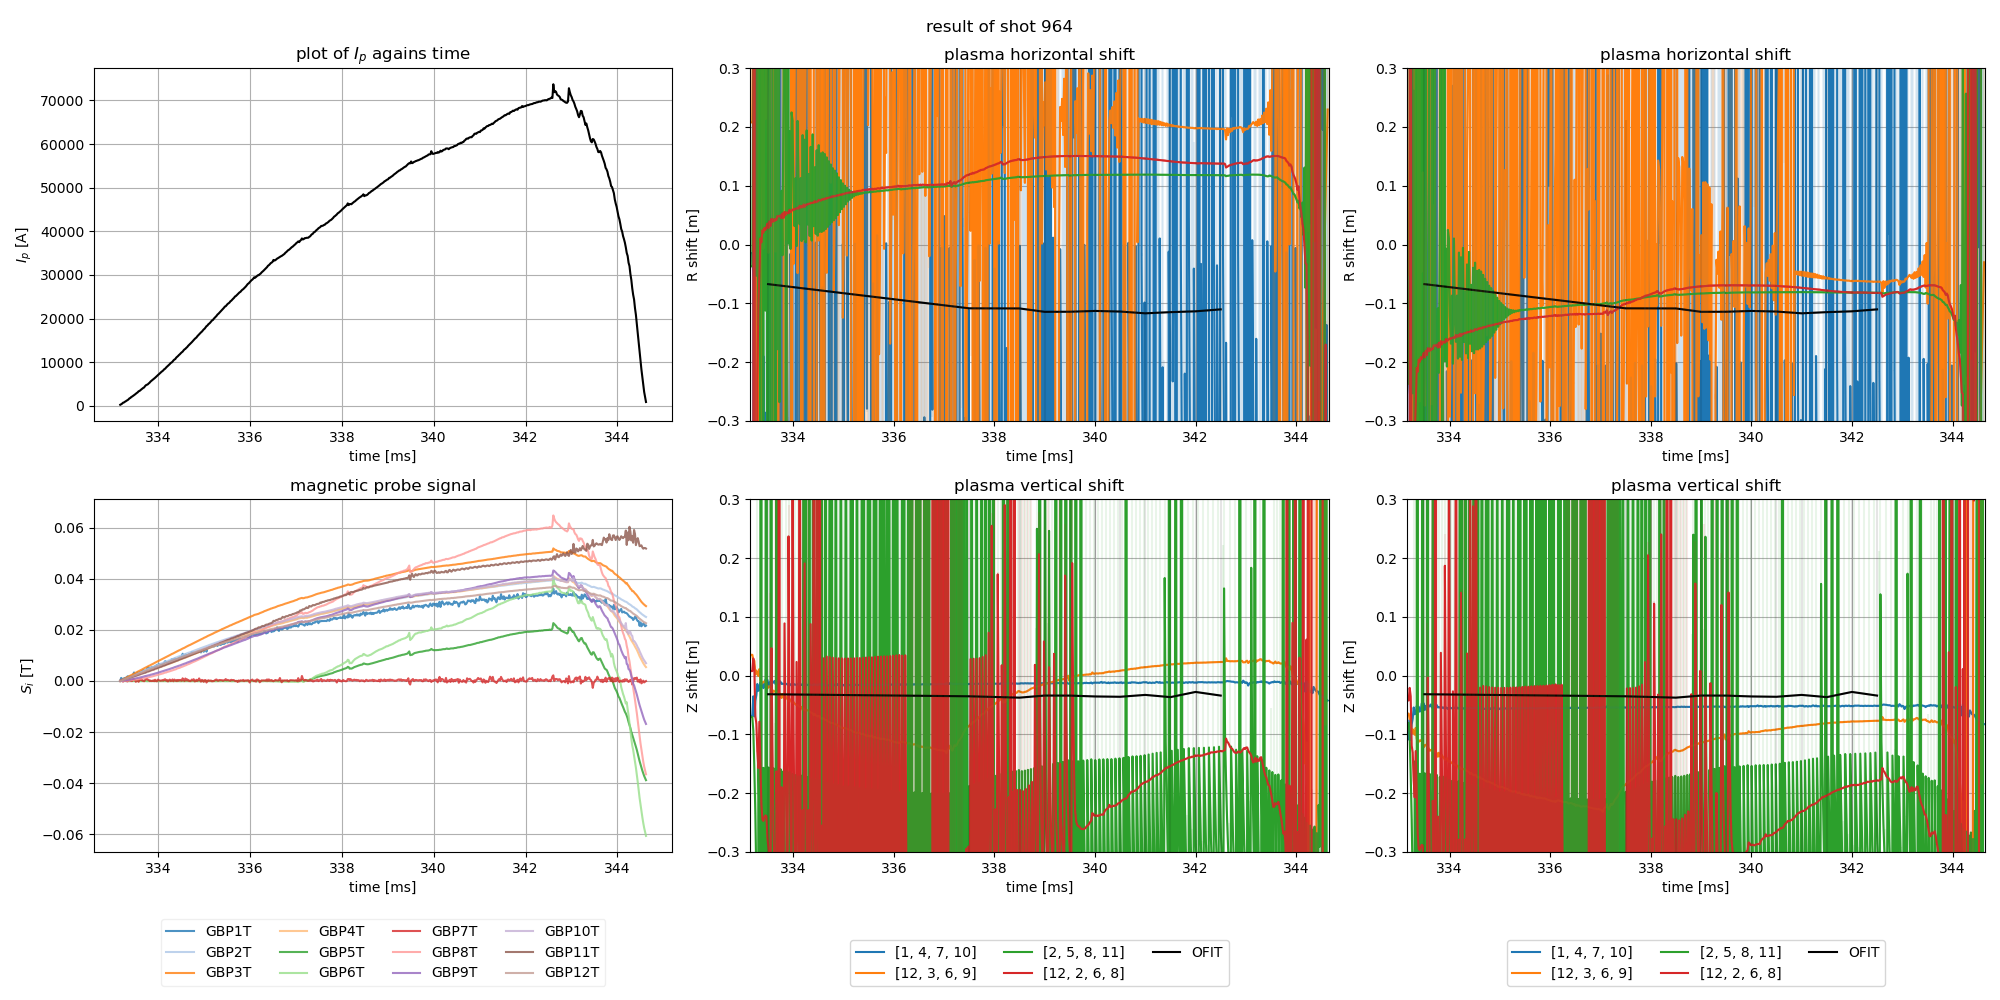
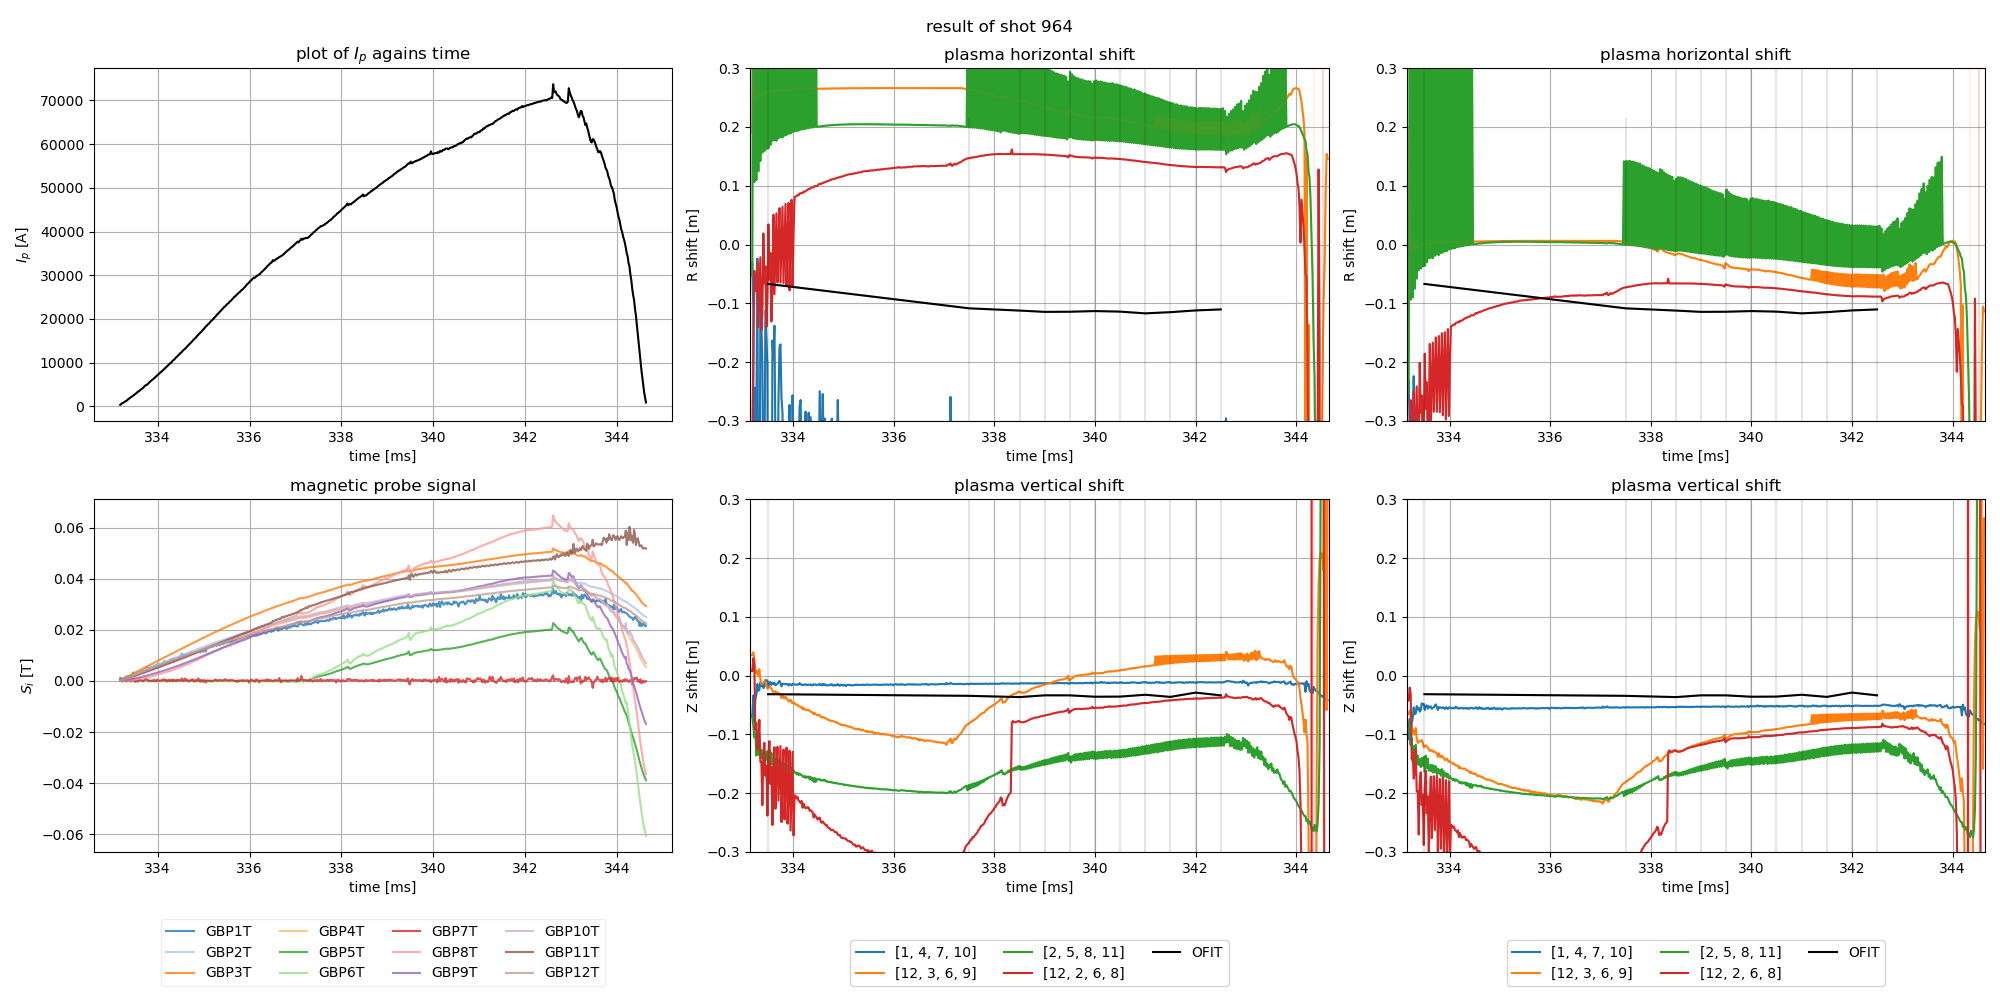
adjust shift approximation to be within +- 20, fix bug of misplaced est_horizontal/vertical_shift add py file for purelytoroidal filament result

diff --git a/toroidalFilament_dir/plasma_shift.py b/toroidalFilament_dir/plasma_shift.py
@@ -20,14 +20,14 @@ def make_taylor(order,a) -> Callable:
         return sum([coeff[i] * (x-a)**i for i in range(order + 1)])
     return taylor_polynomial
 
-def cal_alpha(DxDz_method: Callable,a:float,taylor_order:int ,horizontal_shift: float,vertical_shift:float, coil_angle: NDArray[np.float64],
+def cal_alpha(DxDz_method: Callable,a:float,taylor_order:int ,horizontal_shift: float, coil_angle: NDArray[np.float64],
             vertical_range: NDArray[np.float64] = np.linspace(-0.05,0.05,101)) -> tuple:
     """
     calculate alpha coefficient from curve fitting
 
     :param:
     DxDz_method (Callable): method for calculation of Dx & Dz (cal_newton_DxDz/cal_approx_DxDz)
-    :param Dz: point to be evaluate in taylor series
+    :param Dz: point to be evaluated in taylor series
     horizontal_shift (float): plasma shift value along x/radial direction
     M_angle (list[float]): list of angle between the positive x-axis and radial vector each coil in the cross
     vertical_range (NDArray[np.float64): possible shift of plasma along vertical axis
@@ -43,7 +43,7 @@ def cal_alpha(DxDz_method: Callable,a:float,taylor_order:int ,horizontal_shift: 
     #p0 -> taylor order + 1 because order n has n+1 coeff
     return sc.optimize.curve_fit(taylor_polynomial, Dz, vertical_range,p0 = [0.001]*(taylor_order+1),full_output=False,gtol=1e-8, xtol=1e-8)
 
-def cal_beta(DxDz_method: Callable,a: float,taylor_order:int,vertical_shift: float,horizontal_shift:float, coil_angle: NDArray[np.float64],
+def cal_beta(DxDz_method: Callable,a: float,taylor_order:int,vertical_shift: float, coil_angle: NDArray[np.float64],
              horizontal_range: NDArray[np.float64] = np.linspace(-0.05,0.05,101)) -> tuple:
     """
     calculate beta coefficient from curve fitting
@@ -88,8 +88,8 @@ def cal_shift(DxDz_method: Callable, taylor_order:int,signal: list[float], est_h
 
     Dx, Dz = DxDz_method(signal, coil_angle)
 
-    alpha, a_cov = cal_alpha(DxDz_method,Dz,taylor_order,est_vertical_shift,est_horizontal_shift, coil_angle,vertical_range = alpha_vertical_range)
-    beta, b_cov = cal_beta(DxDz_method,Dx,taylor_order,est_horizontal_shift,est_vertical_shift, coil_angle, horizontal_range= beta_horizontal_range)
+    alpha, a_cov = cal_alpha(DxDz_method,Dz,taylor_order,est_horizontal_shift, coil_angle,vertical_range = alpha_vertical_range) ###check here
+    beta, b_cov = cal_beta(DxDz_method,Dx,taylor_order,est_vertical_shift, coil_angle, horizontal_range= beta_horizontal_range)
 
     a_cov, b_cov = np.diag(a_cov), np.diag(b_cov)
 
@@ -144,8 +144,8 @@ def toroidal_filament_shift_progression(time_df:pd.DataFrame,signal_df:pd.DataFr
 
     :param time_df: data frame of recorded time of each magnetic signal input
     :param signal_df: data frame of recorded signal 
-    :param probe_number: nested list of probe numbers used in each array (counter clockwise) eg. [[1,4,7,10],[12,3,6,9]]
-    :param taylor_order: order of taylor series used in plasma shift calculation
+    :param probe_number: nested list of probe numbers used in each array (counter-clockwise) eg. [[1,4,7,10],[12,3,6,9]]
+    :param taylor_order: order of taylor series used in plasma shift calculation.
     :param DxDz_method: calculation method for Dx & Dz use newton method as default
     :return: valid time stamps and shift with respective errror (np.array(valid_time), np.array(R0_arr), np.array(R0_err_arr), np.array(Z0_arr), np.array(Z0_err_arr))
     """
@@ -161,9 +161,6 @@ def toroidal_filament_shift_progression(time_df:pd.DataFrame,signal_df:pd.DataFr
     Z0_arr,Z0_err_arr = [[0]for _ in range(num_result)], [[0]for _ in range(num_result)]
     valid_time = [[0] for _ in range(num_result)]
 
-    #ignore warning from signal calculatoin (to be replaced in loop)
-    warnings.filterwarnings("ignore")
-
     for t, signal in tqdm(zip(
         time_df.to_numpy(),signal_df.to_numpy()
     ),total = len(time_df)):
@@ -171,18 +168,18 @@ def toroidal_filament_shift_progression(time_df:pd.DataFrame,signal_df:pd.DataFr
             #retreive signals for each probe arrays
             signal_df = [[signal[coil] for coil in group] for group in probe_number]
 
-
             #calculate shift for each probe arrays
             for i,s in enumerate(signal_df):
-                #replace warnings from signal calculatoin
-                est_horizontal_shift = R0_arr[i][-1]
-                if est_horizontal_shift < -R0:
-                    print(f"horizontal shift at time {t} is beyond domain for probe {probe_number[i]} use a_f = R0")
 
-                shift = cal_shift(DxDz_method=DxDz_method, taylor_order=taylor_order,signal = s, 
-                                est_horizontal_shift=R0_arr[i][-1], est_vertical_shift=Z0_arr[i][-1],coil_angle=probe_angles[i],
-                                alpha_vertical_range=np.linspace(-0.05,0.05,101), beta_horizontal_range=np.linspace(-0.05,0.05,101))
-                
+                est_R_shift, est_Z_shift = R0_arr[i][-1], Z0_arr[i][-1]
+                if abs(est_R_shift) > 0.2 or abs(est_Z_shift) > 0.2: # TTI minor radius = 0.2
+                    est_R_shift = 0
+                    est_Z_shift = 0
+
+                shift = cal_shift(DxDz_method=DxDz_method, taylor_order=taylor_order,signal = s,
+                                est_horizontal_shift=est_R_shift, est_vertical_shift=est_Z_shift,coil_angle=probe_angles[i],
+                                alpha_vertical_range=np.linspace(-0.01,0.01,101), beta_horizontal_range=np.linspace(-0.01,0.01,101))
+
                 R_shift, R_err = shift[0]
                 Z_shift, Z_err = shift[1]
 
@@ -190,10 +187,13 @@ def toroidal_filament_shift_progression(time_df:pd.DataFrame,signal_df:pd.DataFr
                 R0_err_arr[i].append(R_err)
                 Z0_arr[i].append(Z_shift)
                 Z0_err_arr[i].append(Z_err)
-            
+
                 #time with valid shift values
                 valid_time[i].append(t)
 
+        except ValueError:
+            print(f"unable to fit data at time {t} continue to next signal")
+            continue
 
         except RuntimeError:
             print(f"unable to fit data at time {t} continue to next signal")

diff --git a/toroidalFilament_dir/shift_simulation.py b/toroidalFilament_dir/shift_simulation.py
@@ -1,113 +1,72 @@
-from itertools import count
 from matplotlib import pyplot as plt
 import numpy as np
-from tqdm import tqdm
+import pandas as pd
 
-from .plasma_shift import cal_shift
-from .DxDz import cal_newton_DxDz as newton
-from .signal_strength import cal_signal
-from .geometry_TT1 import cross
+from .plasma_shift import toroidal_filament_shift_progression
+from .signal_strength import coil_signal
+from .geometry_TT1 import coil_angle_dict, R0, R
 
-num_iteration = 1000
+### simulate magnetic probe signal
 
-#actual value
-R_sim, Z_sim = [0.00], [0.00]
-I = [0]
+def simulate_signal(num_iteration = 1_000):
+    R_sim, Z_sim = [], []
+    all_probe_signal = [[] for _ in range(13)]
 
-#calculated value
-R0_cal, Z0_cal = [R_sim[0]], [Z_sim[0]] #-30 deg
-R0_err, Z0_err = [0], [0]
-R1_cal, Z1_cal = [R_sim[0]], [Z_sim[0]] #0 deg
-R1_err, Z1_err = [0], [0]
-R2_cal, Z2_cal = [R_sim[0]], [Z_sim[0]] #30 deg
-R2_err, Z2_err = [0], [0]
-
-index = count()
-
-def simulate(n):
-    for _ in tqdm(range(n)):
-        #actual shift value
-        if abs(R_sim[-1]) <= 0.12:
-            R_shift = R_sim[-1] + np.random.choice([-0.001, 0.001], p = [0.5,0.5])
-            Z_shift = Z_sim[-1] + np.random.choice([-0.001, 0.001], p = [0.5,0.5])
+    for _ in range(num_iteration):
+        R_est = R_sim[-1] if len(R_sim) > 0 else 0
+        Z_est = Z_sim[-1] if len(Z_sim) > 0 else 0
+        if abs(R_est) <= 0.12:
+            R_shift = R_est + np.random.choice([-0.001, 0.001], p = [0.8,0.2])
+            Z_shift = Z_est + np.random.choice([-0.001, 0.001], p = [0.2,0.8])
 
         else:
-            R_shift = R_sim[-1] + np.random.choice([-0.001, 0.001], p = [0.5,0.5])
-            Z_shift = Z_sim[-1] + np.random.choice([-0.001, 0.001], p = [0.5,0.5])
+            R_shift = R_est + np.random.choice([-0.001, 0.001], p = [0.5,0.5])
+            Z_shift = Z_est + np.random.choice([-0.001, 0.001], p = [0.5,0.5])
 
+        #append shift value
         R_sim.append(R_shift)
         Z_sim.append(Z_shift)
 
-        def helper(probe_array, est_horizontal, est_vertical, order=2):
-            signal = cal_signal(R_shift, Z_shift, probe_array)
-            shift = cal_shift(DxDz_method=newton, taylor_order=order, signal=signal,
-                              est_horizontal_shift=est_horizontal, est_vertical_shift=est_vertical,
-                              coil_angle=probe_array,
-                              beta_horizontal_range=np.linspace(-0.01,0.01,101), alpha_vertical_range=np.linspace(-0.01,0.01,101))
-            R, Z = shift[0, 0], shift[1, 0]
-            Re, Ze = shift[0,1], shift[1,1]
-            return R, Z, Re, Ze
+        all_probe_signal[0].append(0)
 
-        #calculated shift value
+        for probe_num, probe_signal in enumerate(all_probe_signal[1:], start = 1):
+            phi = coil_angle_dict[probe_num]
+            r_probe = R0 + R * np.cos(phi)
+            z_probe = R * np.sin(phi) - Z_shift
+            a_f = R0 + R_shift
+            signal_i = coil_signal(phi,r_probe,z_probe,a_f) #signal of probe at this specific iteration
+            probe_signal.append(signal_i)
 
-        #cross 0
-        R0, Z0, R0e,Z0e = helper(probe_array=(cross[0][0], cross[2][0], cross[0][2], cross[2][2]),est_horizontal=R0_cal[-1],est_vertical=Z0_cal[-1])
-        R0_cal.append(R0)
-        R0_err.append(R0e)
-        Z0_cal.append(Z0)
-        Z0_err.append(Z0e)
+    return list(range(num_iteration)),R_sim, Z_sim, all_probe_signal
 
-        #cross 1
-        R1, Z1, R1e,Z1e = helper([cross[0][0], cross[1][3], cross[0][2],cross[1][2]], R1_cal[-1], Z1_cal[-1])
-        R1_cal.append(R1)
-        R1_err.append(R1e)
-        Z1_cal.append(Z1)
-        Z1_err.append(Z1e)
+iteration, R_sim, Z_sim, probe_signal = simulate_signal()
 
-        #cross 2
-        R2, Z2,R2e,Z2e = helper([cross[1][3], cross[2][0], cross[1][2],cross[2][2]], R2_cal[-1],Z2_cal[-1])
-        R2_cal.append(R2)
-        R2_err.append(R2e)
-        Z2_cal.append(Z2)
-        Z2_err.append(Z2e)
+signal_df = pd.DataFrame(np.array(probe_signal).T)
+iteration_df = pd.Series(np.array(iteration).T)
 
-simulate(num_iteration)
+### calculate plasma shift
+use_probes = [[1, 4, 7, 10], [12, 3, 6, 9], [2, 5, 8, 11], [12, 2, 6, 8]]
+valid_iteration, R_arr, R_err, Z_arr, Z_err =  toroidal_filament_shift_progression(iteration_df,signal_df,use_probes)
 
-fig, (ax1, ax2) = plt.subplots(2, 1, figsize=(5, 5))
+fig, ax = plt.subplots(1,2,figsize = (15,5))
 
-iteration = list(range(num_iteration+1))
+ax[0].plot(iteration, R_sim, label = "R sim")
+for iter, R, probes in zip(valid_iteration, R_arr,use_probes):
+    ax[0].plot(iter,R,label = f"{probes}")
+ax[0].set_xlabel("iteration [1]")
+ax[0].set_ylabel("R shift [m]")
+ax[0].grid()
+ax[0].legend()
 
-#plot of R shift
-ax1.plot(iteration, R_sim,color = "red", label = "R_shift")
-ax1.errorbar(iteration, R0_cal,yerr = R0_err, color = "blue", label = "R0_cal")
-ax1.errorbar(iteration, R1_cal,yerr = R1_err, color = "green", label = "R1_cal")
-ax1.errorbar(iteration, R2_cal,yerr = R2_err, color = "purple", label = "R2_cal")
-ax1.set_ylim(-0.2,0.2)
-ax1.set_xlabel("iteration [1]")
-ax1.set_ylabel("R shift [m]")
-ax1.legend()
-ax1.grid()
+ax[1].plot(iteration, Z_sim, label = "Z sim")
+for iter, Z, probes in zip(valid_iteration, Z_arr, use_probes):
+    ax[1].plot(iter,Z,label = f"{probes}")
+ax[1].set_xlabel("iteration [1]")
+ax[1].set_ylabel("Z shift [m]")
+ax[1].grid()
+ax[1].legend()
 
-#plot of Z shift
-ax2.plot(iteration, Z_sim, color = "red", label = "Z_shift")
-ax2.errorbar(iteration, Z0_cal,Z0_err ,color = "blue", label = "Z0_cal")
-ax2.errorbar(iteration, Z1_cal,Z1_err, color = "green", label = "Z1_cal")
-ax2.errorbar(iteration, Z2_cal,Z2_err, color = "purple", label = "Z2_cal")
-ax2.set_ylim(-0.2,0.2)
-ax2.set_xlabel("iteration [1]")
-ax2.set_ylabel("Z shift [m]")
-ax2.legend()
-ax2.grid()
+for a in ax:
+    a.set_ylim(-0.2,0.2)
 
-R_sim = np.array(R_sim)
-
-mean_R0_err = np.mean(abs(np.array(R0_cal) - R_sim))
-mean_R1_err = np.mean(abs(np.array(R1_cal) - R_sim))
-mean_R2_err = np.mean(abs(np.array(R2_cal) - R_sim))
-
-print(mean_R0_err, mean_R1_err, mean_R2_err)
-
-plt.tight_layout()
 plt.show()
-
-

diff --git a/toroidalFilamentResult.py b/toroidalFilamentResult.py
@@ -1,0 +1,79 @@
+#standard libraries
+import numpy as np
+from matplotlib import pyplot as plt
+import pandas as pd
+from tqdm import tqdm
+
+#toroidal filament functions
+from process_probe_data import retreive_plasma_current, retreive_magnetic_signal,trim_quantities
+from toroidalFilament_dir.plasma_shift import toroidal_filament_shift_progression
+
+shot_lst = list(range(961,968))
+shot_lst = [961]
+time_extension = 10 #ms
+
+for shot_no in shot_lst:
+    #retreive processed data
+    recorded_plasma_current, recorded_time, discharge_begin, discharge_end = retreive_plasma_current(shot_no)
+    recorded_magnetic_signal = retreive_magnetic_signal(shot_no)
+
+    end_time = min(discharge_begin + time_extension, discharge_end)
+
+    time, plasma_current, plasma_signal = trim_quantities(recorded_time,recorded_magnetic_signal,recorded_plasma_current,discharge_begin,end_time)
+
+    #calculate shift with toroidal filament
+    use_probes = [[1,4,7,10],[12,3,6,9],[2,5,8,11],[12,2,6,8]]
+    valid_time, toroidal_R0_arr, toroidal_R0_err, toroidal_Z0_arr, toroidal_Z0_err = toroidal_filament_shift_progression(time,plasma_signal,use_probes)
+
+
+    def result_plot(axR, axZ, adjust):
+        # toroidal filament result
+        for t, R_shift, R_err, probe_arr in zip(valid_time, toroidal_R0_arr, toroidal_R0_err, use_probes):
+            if probe_arr == [12, 3, 6, 9]:
+                factor = 0.26
+            elif probe_arr == [12, 2, 6, 8]:
+                factor = 0.22
+            elif probe_arr == [1, 4, 7, 10]:
+                factor = 0.2
+            elif probe_arr == [2, 5, 8, 11]:
+                factor = 0.2
+            if adjust == False: factor = 0
+            line = axR.plot(t, np.array(R_shift) - factor, label=f"{probe_arr}")
+            color = line[0].get_color()
+            axR.errorbar(t, np.array(R_shift) - factor, yerr=R_err, alpha=0.1, color=color)
+
+        axR.set_ylim(-0.3, 0.3)
+        axR.set_xlim(left=discharge_begin, right=end_time)
+        axR.grid()
+        axR.set_xlabel("time [ms]")
+        axR.set_ylabel("R shift [m]")
+        axR.set_title("plasma horizontal shift")
+
+        # toroidal filament result
+        for t, Z_shift, Z_err, probe_arr in zip(valid_time, toroidal_Z0_arr, toroidal_Z0_err, use_probes):
+            if probe_arr == [12, 3, 6, 9]:
+                factor = 0.1
+            elif probe_arr == [12, 2, 6, 8]:
+                factor = 0.05
+            elif probe_arr == [1, 4, 7, 10]:
+                factor = 0.04
+            elif probe_arr == [2, 5, 8, 11]:
+                factor = 0.01
+            if adjust == False: factor = 0
+            line = axZ.plot(t, np.array(Z_shift) - factor, label=f"{probe_arr}")
+            color = line[0].get_color()
+            axZ.errorbar(t, np.array(Z_shift) - factor, yerr=Z_err, alpha=0.1, color=color)
+
+        axZ.set_ylim(-0.3, 0.3)
+        axZ.set_xlim(left=discharge_begin, right=end_time)
+        axZ.grid()
+        axZ.set_xlabel("time [ms]")
+        axZ.set_ylabel("Z shift [m]")
+        axZ.set_title("plasma vertical shift")
+        axZ.legend(loc="lower center", bbox_to_anchor=(0.5, -0.4), ncol=3)
+
+    fig, ax = plt.subplots(1,2,figsize = (15,5))
+    result_plot(ax[0],ax[1],False)
+    save_path = r"C:\Users\pitit\Documents\02_MUIC_programming\ICPY_441_Senior_project_in_physics\plasmaColumnPosition\resources\result" + f"\\toroidal{shot_no}"
+    plt.tight_layout()
+    plt.savefig(save_path)

diff --git a/toroidalFilament_dir/signal_strength.py b/toroidalFilament_dir/signal_strength.py
@@ -20,6 +20,10 @@ def coil_signal(phi:np.float64, r:float, z:float, a_f:float):
     Returns:
     float: simulated magnetic signal at each coils
     """
+    if None in (phi,r,z,a_f) or np.inf in (phi,r,z,a_f):
+        raise ValueError(f"Nan or inf is contained in [phi,r,z,a_f] = {[phi,r,z,a_f]}")
+    if a_f < 0:
+        raise ValueError("a_f is negative")
 
     k = np.sqrt(4 * a_f * r / ((a_f + r) ** 2 + z ** 2))
     K, E = sc.special.ellipk(k ** 2), sc.special.ellipe(k ** 2)
@@ -50,11 +54,6 @@ def cal_signal(horizontal_shift: float, vertical_shift: float, coil_angle: NDArr
     """
     x, z = horizontal_shift, vertical_shift
     a_f:float = R0 + x  # calculate plasma radius from shift
-
-    # to prevent sqrt error in coil_signal if x < -R0 use R0 instead
-    if x < -R0:
-        warnings.warn("horizontal shift beyond domain use a_f = R0")
-        a_f = R0
 
     loc: list[tuple[float, float]] = [(R0 + R * np.cos(phi), R * np.sin(phi) - z) for phi in
                     coil_angle]  # get coordinate of each coil in cylindrical coordinate

diff --git a/experimental_result.py b/experimental_result.py
@@ -12,7 +12,7 @@ from toroidalFilament_dir.plasma_shift import toroidal_filament_shift_progressio
 from OFIT_dir.OFIT import OFIT
 from OFIT_dir.local_image import rev_image, get_frames_for_shot
 
-shot_lst = list(range(963,969))
+shot_lst = list(range(961,968))
 time_extension = 40 #ms
 
 for shot_no in shot_lst:
@@ -146,7 +146,7 @@ for shot_no in shot_lst:
     #adjusted result
     result_plot(ax[0,2],ax[1,2],True)
 
-    save_path = r"C:\Users\pitit\Documents\02_MUIC_programming\ICPY_441_Senior_project_in_physics\plasmaColumnPosition\resources\result" + f"\{shot_no}"
+    save_path = r"C:\Users\pitit\Documents\02_MUIC_programming\ICPY_441_Senior_project_in_physics\plasmaColumnPosition\resources\result" + f"\\{shot_no}"
     plt.tight_layout()
     plt.savefig(save_path)
     plt.clf()

diff --git a/process_probe_data.py b/process_probe_data.py
@@ -99,4 +99,4 @@ def trim_quantities(recorded_time_df,magnetic_signal_df,recorded_plasma_current_
 
     #remove noise using signal at t1
     trimmed_magnetic_signal_df = trimmed_magnetic_signal_df - trimmed_magnetic_signal_df.iloc[0]
-    return trimmed_time_df, trimmed_plasma_current_df, trimmed_magnetic_signal_df
+    return trimmed_time_df.iloc[1:], trimmed_plasma_current_df.iloc[1:], trimmed_magnetic_signal_df.iloc[1:]
